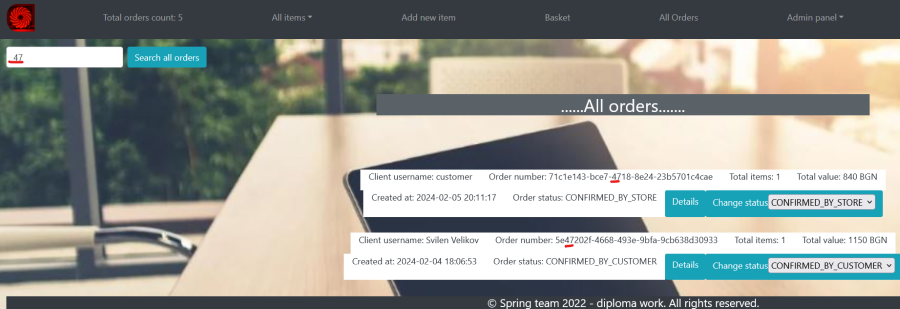
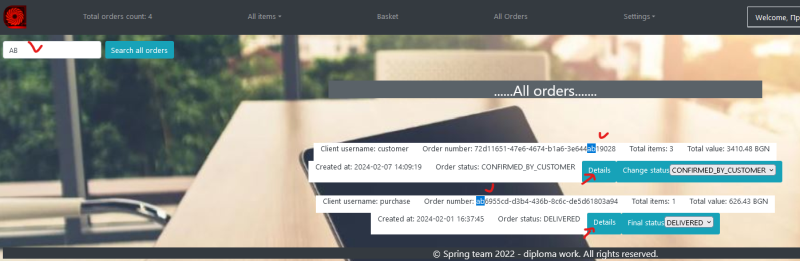
improved orders search - now case insensitive

diff --git a/src/main/java/bg/softuni/computerStore/repository/orders/FinalOrderRepository.java b/src/main/java/bg/softuni/computerStore/repository/orders/FinalOrderRepository.java
@@ -26,9 +26,9 @@ public interface FinalOrderRepository extends JpaRepository<FinalOrderEntity, St
 
     List<FinalOrderEntity> findAllByUserId(Long userId);
 
-    @Query("SELECT o FROM FinalOrderEntity o WHERE o.orderNumber LIKE CONCAT('%', :searchByOrderNumber, '%')")
+    @Query("SELECT o FROM FinalOrderEntity o WHERE LOWER(o.orderNumber) LIKE CONCAT('%', :searchByOrderNumber, '%')")
     List<FinalOrderEntity> findAllOrdersLazyByOrderNumber(String searchByOrderNumber);
 
-    @Query("SELECT o FROM FinalOrderEntity o WHERE o.user.id = :userId AND o.orderNumber LIKE CONCAT('%', :searchByOrderNumber, '%')")
+    @Query("SELECT o FROM FinalOrderEntity o WHERE o.user.id = :userId AND LOWER(o.orderNumber) LIKE CONCAT('%', :searchByOrderNumber, '%')")
     List<FinalOrderEntity> findAllOrdersLazyByUserIdAndOrderNumber(Long userId, String searchByOrderNumber);
 }

diff --git a/src/main/java/bg/softuni/computerStore/service/FinalOrderService.java b/src/main/java/bg/softuni/computerStore/service/FinalOrderService.java
@@ -196,10 +196,10 @@ public class FinalOrderService implements InitializableFinalOrderService {
     }
 
     public List<FinalOrderEntity> searchAllOrdersLazyByOrderNumber(String searchByOrderNumber) {
-        return this.finalOrderRepository.findAllOrdersLazyByOrderNumber(searchByOrderNumber);
+        return this.finalOrderRepository.findAllOrdersLazyByOrderNumber(searchByOrderNumber.toLowerCase());
     }
 
     public List<FinalOrderEntity> searchAllOrdersByUserIdAndOrderNumber(Long userId, String searchByOrderNumber) {
-        return this.finalOrderRepository.findAllOrdersLazyByUserIdAndOrderNumber(userId, searchByOrderNumber);
+        return this.finalOrderRepository.findAllOrdersLazyByUserIdAndOrderNumber(userId, searchByOrderNumber.toLowerCase());
     }
 }

diff --git a/README.md b/README.md
@@ -161,7 +161,8 @@
   * upload/change the photo of each item product. Each uploaded photo deletes automatically (also in the Cloudinary system) the previous uploaded photo for that computer item
   
   ![upload photo of item 1.png](readme_media%2Fupload%20photo%20of%20item%201.png)
-  
+
+
 
 
 ### SALES functionality of the store **only by employees of the store with role EMPLOYEE_SALES or the ADMIN**
@@ -181,6 +182,7 @@
 
 
 
+
 ### Tracing the count of total orders done
 * In the upper left corner of the webpage we can see the total number of orders done so far by all customers
 
@@ -193,7 +195,7 @@
 * Implemented client-side search for displaying/finding orders by order number via REST and Fetch API - for logged-in users:
   * Each user with roles either ADMIN and/or EMPLOYEE_SALES has access to change the order status - for all existing orders possible.
   * Each user with role CUSTOMER or with role EMPLOYEE_PURCHASES & CUSTOMER  has only the standard access - i.e. only access to his/her own orders, and not access to all orders.
-  * It works sorted by default (by created datetime DESCENDING) and the last added order appears first in the result list.
+  * It works sorted by default (by created datetime DESCENDING) **caseInsensitive** and the last added order appears first in the result list.
 
 ![search orders.png](readme_media%2Fsearch%20orders.png)
 
